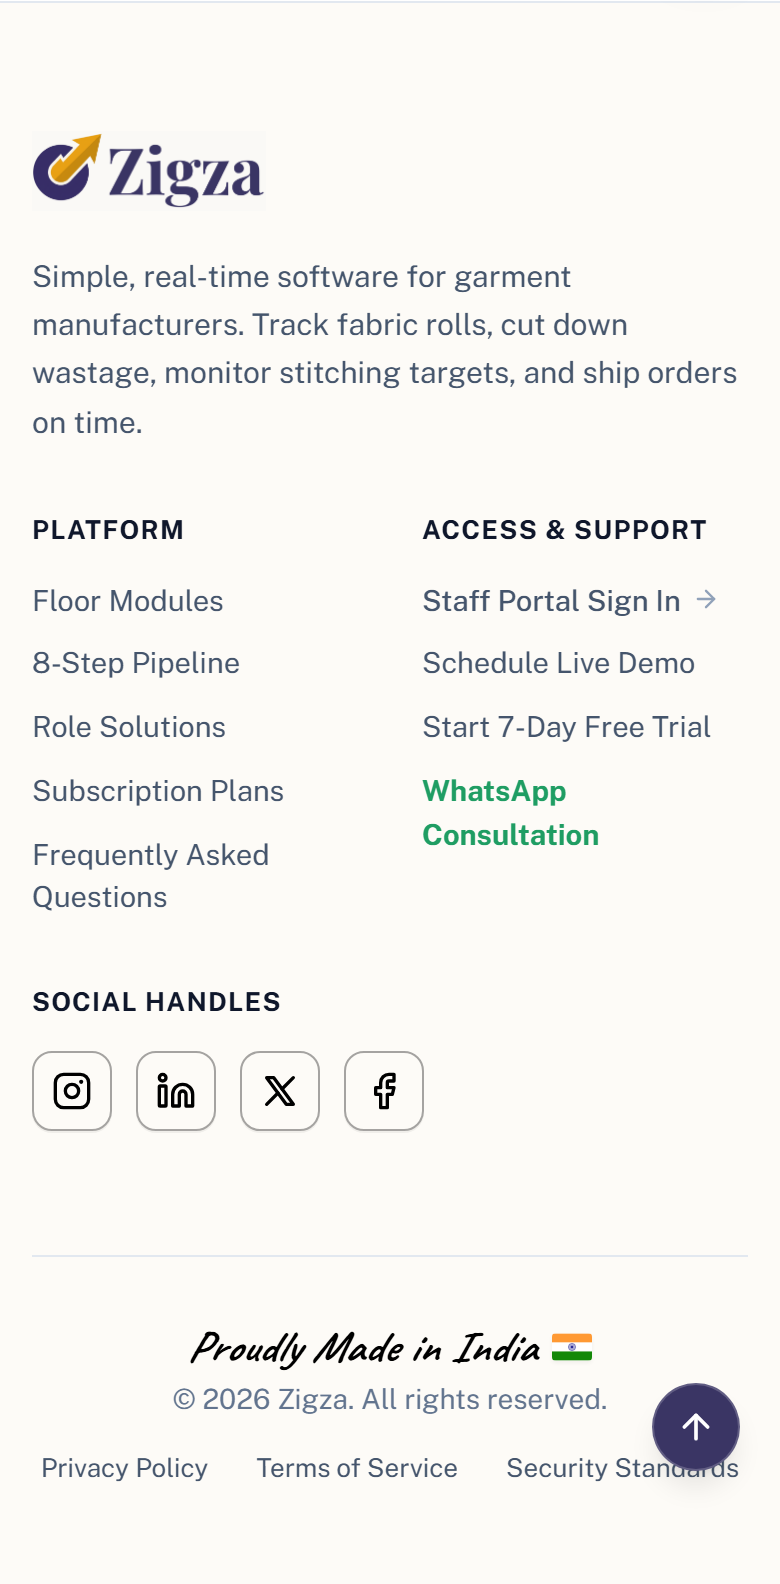
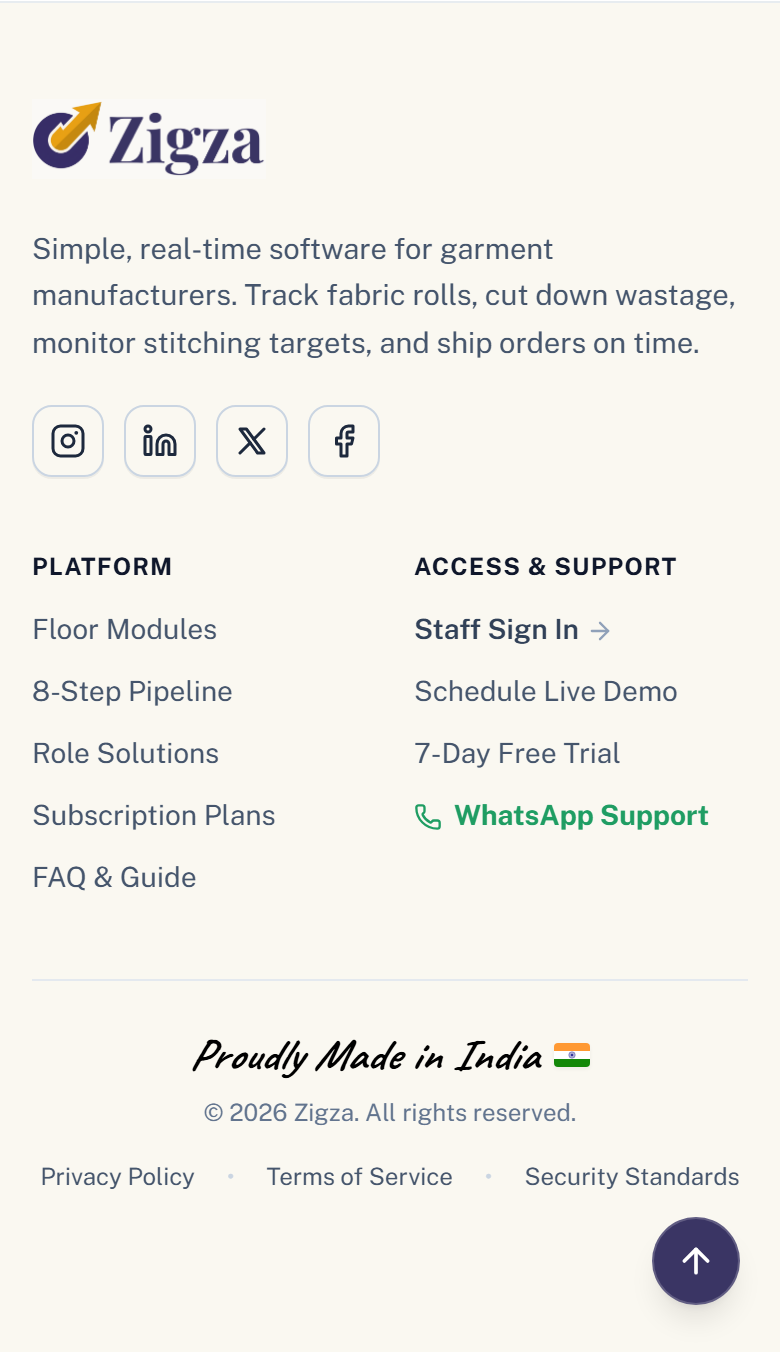
feat: add Zigza landing page client component and mobile introductory section assets

diff --git a/src/app/components/ZigzaLandingPageClient.tsx b/src/app/components/ZigzaLandingPageClient.tsx
@@ -2512,196 +2512,189 @@ export function ZigzaLandingPageClient({
       {/* =================================================================== */}
       {/* 10. ENTERPRISE FOOTER (LIGHT MODERN PALETTE)                       */}
       {/* =================================================================== */}
-      <footer className="bg-[#FDFBF7] text-slate-600 pt-16 pb-12 px-4 sm:px-6 lg:px-8 border-t border-slate-200">
+      <footer className="bg-[#FAF7F0]/90 text-slate-600 pt-12 sm:pt-16 pb-20 sm:pb-14 px-4 sm:px-6 lg:px-8 border-t border-slate-200/80">
         <div className="max-w-7xl mx-auto">
           
-          <div className="grid grid-cols-2 sm:grid-cols-2 lg:grid-cols-5 gap-8 sm:gap-10 lg:gap-8 mb-12 sm:mb-16">
+          <div className="grid grid-cols-1 md:grid-cols-2 lg:grid-cols-12 gap-8 sm:gap-10 lg:gap-12 mb-10 sm:mb-14">
             
             {/* Brand Column */}
-            <div className="col-span-2 lg:col-span-2 space-y-3.5">
+            <div className="lg:col-span-5 space-y-4">
               <Link href="/" className="inline-block group">
                 <img 
                   src="/z i g z a (8).png" 
                   alt="Zigza" 
-                  className="h-10 sm:h-12 w-auto object-contain group-hover:opacity-90 transition-opacity duration-150"
+                  className="h-10 sm:h-11 w-auto object-contain group-hover:opacity-90 transition-opacity duration-150"
                 />
               </Link>
-              <p className="text-[15px] sm:text-base text-slate-600 leading-relaxed max-w-sm font-normal">
+              <p className="text-[14.5px] sm:text-[15px] text-slate-600 leading-relaxed max-w-sm font-normal">
                 Simple, real-time software for garment manufacturers. Track fabric rolls, cut down wastage, monitor stitching targets, and ship orders on time.
               </p>
-            </div>
 
-            {/* Column 1: Platform */}
-            <div className="space-y-3.5">
-              <h5 className="text-[13px] font-mono font-bold uppercase tracking-wider text-slate-900">
-                Platform
-              </h5>
-              <ul className="space-y-2.5 text-[14.5px] sm:text-[15px]">
-                <li>
-                  <a 
-                    href="#modules" 
-                    onClick={(e) => scrollToSection(e, 'modules')}
-                    className="text-slate-600 hover:text-slate-900 hover:underline transition-colors inline-block cursor-pointer"
-                  >
-                    Floor Modules
-                  </a>
-                </li>
-                <li>
-                  <a 
-                    href="#workflow" 
-                    onClick={(e) => scrollToSection(e, 'workflow')}
-                    className="text-slate-600 hover:text-slate-900 hover:underline transition-colors inline-block cursor-pointer"
-                  >
-                    8-Step Pipeline
-                  </a>
-                </li>
-                <li>
-                  <a 
-                    href="#roles" 
-                    onClick={(e) => scrollToSection(e, 'roles')}
-                    className="text-slate-600 hover:text-slate-900 hover:underline transition-colors inline-block cursor-pointer"
-                  >
-                    Role Solutions
-                  </a>
-                </li>
-                <li>
-                  <a 
-                    href="#pricing" 
-                    onClick={(e) => scrollToSection(e, 'pricing')}
-                    className="text-slate-600 hover:text-slate-900 hover:underline transition-colors inline-block cursor-pointer"
-                  >
-                    Subscription Plans
-                  </a>
-                </li>
-                <li>
-                  <a 
-                    href="#faq" 
-                    onClick={(e) => scrollToSection(e, 'faq')}
-                    className="text-slate-600 hover:text-slate-900 hover:underline transition-colors inline-block cursor-pointer"
-                  >
-                    Frequently Asked Questions
-                  </a>
-                </li>
-              </ul>
-            </div>
-
-            {/* Column 2: Access & Support */}
-            <div className="space-y-3.5">
-              <h5 className="text-[13px] font-mono font-bold uppercase tracking-wider text-slate-900">
-                Access &amp; Support
-              </h5>
-              <ul className="space-y-2.5 text-[14.5px] sm:text-[15px]">
-                <li>
-                  <Link 
-                    href="/login" 
-                    className="text-slate-600 hover:text-slate-900 transition-colors inline-flex items-center gap-1.5 font-medium"
-                  >
-                    <span>Staff Portal Sign In</span>
-                    <ArrowRight className="w-3.5 h-3.5 text-slate-400" />
-                  </Link>
-                </li>
-                <li>
-                  <button
-                    type="button"
-                    onClick={() => setIsDemoModalOpen(true)}
-                    className="text-slate-600 hover:text-slate-900 transition-colors inline-block cursor-pointer"
-                  >
-                    Schedule Live Demo
-                  </button>
-                </li>
-                <li>
-                  <Link 
-                    href="/register" 
-                    className="text-slate-600 hover:text-slate-900 transition-colors inline-block"
-                  >
-                    Start 7-Day Free Trial
-                  </Link>
-                </li>
-                <li>
-                  <a 
-                    href="https://wa.me/?text=Hi,%20I%20would%20like%20to%20request%20a%20live%20demo%20of%20Zigza%20MES." 
-                    target="_blank" 
-                    rel="noopener noreferrer" 
-                    className="text-[#1F9D63] hover:text-emerald-700 transition-colors inline-block font-bold"
-                  >
-                    WhatsApp Consultation
-                  </a>
-                </li>
-              </ul>
-            </div>
-
-            {/* Column 3: Social Handles */}
-            <div className="col-span-2 sm:col-span-1 space-y-3.5">
-              <h5 className="text-[13px] font-mono font-bold uppercase tracking-wider text-slate-900">
-                Social Handles
-              </h5>
-              {/* Mobile: Horizontal icon row | Desktop: Vertical list with labels */}
-              <div className="flex items-center gap-3 sm:hidden">
-                <a href="https://instagram.com" target="_blank" rel="noopener noreferrer" aria-label="Zigza on Instagram" className="w-10 h-10 rounded-lg border border-black/35 hover:border-black hover:bg-[#FAF7F0] flex items-center justify-center transition-all bg-transparent shadow-2xs">
-                  <InstagramOutlineIcon className="w-5 h-5 text-black" />
+              {/* Social Handles Bar - Integrated smoothly in brand block */}
+              <div className="pt-1 flex items-center gap-2.5">
+                <a 
+                  href="https://instagram.com" 
+                  target="_blank" 
+                  rel="noopener noreferrer" 
+                  aria-label="Zigza on Instagram" 
+                  className="w-9 h-9 rounded-lg border border-slate-300 hover:border-black hover:bg-white flex items-center justify-center transition-all text-slate-800 hover:text-black shadow-2xs"
+                >
+                  <InstagramOutlineIcon className="w-4.5 h-4.5" />
                 </a>
-                <a href="https://linkedin.com" target="_blank" rel="noopener noreferrer" aria-label="Zigza on LinkedIn" className="w-10 h-10 rounded-lg border border-black/35 hover:border-black hover:bg-[#FAF7F0] flex items-center justify-center transition-all bg-transparent shadow-2xs">
-                  <LinkedinOutlineIcon className="w-5 h-5 text-black" />
+                <a 
+                  href="https://linkedin.com" 
+                  target="_blank" 
+                  rel="noopener noreferrer" 
+                  aria-label="Zigza on LinkedIn" 
+                  className="w-9 h-9 rounded-lg border border-slate-300 hover:border-black hover:bg-white flex items-center justify-center transition-all text-slate-800 hover:text-black shadow-2xs"
+                >
+                  <LinkedinOutlineIcon className="w-4.5 h-4.5" />
                 </a>
-                <a href="https://x.com" target="_blank" rel="noopener noreferrer" aria-label="Zigza on Twitter / X" className="w-10 h-10 rounded-lg border border-black/35 hover:border-black hover:bg-[#FAF7F0] flex items-center justify-center transition-all bg-transparent shadow-2xs">
-                  <TwitterXOutlineIcon className="w-5 h-5 text-black" />
+                <a 
+                  href="https://x.com" 
+                  target="_blank" 
+                  rel="noopener noreferrer" 
+                  aria-label="Zigza on Twitter / X" 
+                  className="w-9 h-9 rounded-lg border border-slate-300 hover:border-black hover:bg-white flex items-center justify-center transition-all text-slate-800 hover:text-black shadow-2xs"
+                >
+                  <TwitterXOutlineIcon className="w-4.5 h-4.5" />
                 </a>
-                <a href="https://facebook.com" target="_blank" rel="noopener noreferrer" aria-label="Zigza on Facebook" className="w-10 h-10 rounded-lg border border-black/35 hover:border-black hover:bg-[#FAF7F0] flex items-center justify-center transition-all bg-transparent shadow-2xs">
-                  <FacebookOutlineIcon className="w-5 h-5 text-black" />
+                <a 
+                  href="https://facebook.com" 
+                  target="_blank" 
+                  rel="noopener noreferrer" 
+                  aria-label="Zigza on Facebook" 
+                  className="w-9 h-9 rounded-lg border border-slate-300 hover:border-black hover:bg-white flex items-center justify-center transition-all text-slate-800 hover:text-black shadow-2xs"
+                >
+                  <FacebookOutlineIcon className="w-4.5 h-4.5" />
                 </a>
               </div>
-              <ul className="hidden sm:block space-y-2.5 text-[14.5px] sm:text-[15px]">
-                <li>
-                  <a href="https://instagram.com" target="_blank" rel="noopener noreferrer" aria-label="Zigza on Instagram" className="text-slate-700 hover:text-black transition-colors inline-flex items-center gap-3 group cursor-pointer">
-                    <span className="w-8 h-8 rounded-lg border border-black/35 group-hover:border-black group-hover:bg-[#FAF7F0] flex items-center justify-center transition-all bg-transparent shrink-0 shadow-2xs">
-                      <InstagramOutlineIcon className="w-4.5 h-4.5 text-black group-hover:scale-105 transition-transform" />
-                    </span>
-                    <span className="font-medium group-hover:underline">Instagram</span>
-                  </a>
-                </li>
-                <li>
-                  <a href="https://linkedin.com" target="_blank" rel="noopener noreferrer" aria-label="Zigza on LinkedIn" className="text-slate-700 hover:text-black transition-colors inline-flex items-center gap-3 group cursor-pointer">
-                    <span className="w-8 h-8 rounded-lg border border-black/35 group-hover:border-black group-hover:bg-[#FAF7F0] flex items-center justify-center transition-all bg-transparent shrink-0 shadow-2xs">
-                      <LinkedinOutlineIcon className="w-4.5 h-4.5 text-black group-hover:scale-105 transition-transform" />
-                    </span>
-                    <span className="font-medium group-hover:underline">LinkedIn</span>
-                  </a>
-                </li>
-                <li>
-                  <a href="https://x.com" target="_blank" rel="noopener noreferrer" aria-label="Zigza on Twitter / X" className="text-slate-700 hover:text-black transition-colors inline-flex items-center gap-3 group cursor-pointer">
-                    <span className="w-8 h-8 rounded-lg border border-black/35 group-hover:border-black group-hover:bg-[#FAF7F0] flex items-center justify-center transition-all bg-transparent shrink-0 shadow-2xs">
-                      <TwitterXOutlineIcon className="w-4.5 h-4.5 text-black group-hover:scale-105 transition-transform" />
-                    </span>
-                    <span className="font-medium group-hover:underline">Twitter / X</span>
-                  </a>
-                </li>
-                <li>
-                  <a href="https://facebook.com" target="_blank" rel="noopener noreferrer" aria-label="Zigza on Facebook" className="text-slate-700 hover:text-black transition-colors inline-flex items-center gap-3 group cursor-pointer">
-                    <span className="w-8 h-8 rounded-lg border border-black/35 group-hover:border-black group-hover:bg-[#FAF7F0] flex items-center justify-center transition-all bg-transparent shrink-0 shadow-2xs">
-                      <FacebookOutlineIcon className="w-4.5 h-4.5 text-black group-hover:scale-105 transition-transform" />
-                    </span>
-                    <span className="font-medium group-hover:underline">Facebook</span>
-                  </a>
-                </li>
-              </ul>
+            </div>
+
+            {/* Navigation Grid (2 Columns on Mobile & Tablet, 7 Columns on Desktop) */}
+            <div className="lg:col-span-7 grid grid-cols-2 gap-6 sm:gap-10 pt-1 lg:pt-0">
+              
+              {/* Column 1: Platform */}
+              <div className="space-y-3">
+                <h5 className="text-[12px] sm:text-[13px] font-mono font-bold uppercase tracking-wider text-slate-900">
+                  Platform
+                </h5>
+                <ul className="space-y-2.5 text-[14px] sm:text-[14.5px]">
+                  <li>
+                    <a 
+                      href="#modules" 
+                      onClick={(e) => scrollToSection(e, 'modules')}
+                      className="text-slate-600 hover:text-slate-900 hover:underline transition-colors inline-block cursor-pointer"
+                    >
+                      Floor Modules
+                    </a>
+                  </li>
+                  <li>
+                    <a 
+                      href="#workflow" 
+                      onClick={(e) => scrollToSection(e, 'workflow')}
+                      className="text-slate-600 hover:text-slate-900 hover:underline transition-colors inline-block cursor-pointer"
+                    >
+                      8-Step Pipeline
+                    </a>
+                  </li>
+                  <li>
+                    <a 
+                      href="#roles" 
+                      onClick={(e) => scrollToSection(e, 'roles')}
+                      className="text-slate-600 hover:text-slate-900 hover:underline transition-colors inline-block cursor-pointer"
+                    >
+                      Role Solutions
+                    </a>
+                  </li>
+                  <li>
+                    <a 
+                      href="#pricing" 
+                      onClick={(e) => scrollToSection(e, 'pricing')}
+                      className="text-slate-600 hover:text-slate-900 hover:underline transition-colors inline-block cursor-pointer"
+                    >
+                      Subscription Plans
+                    </a>
+                  </li>
+                  <li>
+                    <a 
+                      href="#faq" 
+                      onClick={(e) => scrollToSection(e, 'faq')}
+                      className="text-slate-600 hover:text-slate-900 hover:underline transition-colors inline-block cursor-pointer"
+                    >
+                      FAQ &amp; Guide
+                    </a>
+                  </li>
+                </ul>
+              </div>
+
+              {/* Column 2: Access & Support */}
+              <div className="space-y-3">
+                <h5 className="text-[12px] sm:text-[13px] font-mono font-bold uppercase tracking-wider text-slate-900">
+                  Access &amp; Support
+                </h5>
+                <ul className="space-y-2.5 text-[14px] sm:text-[14.5px]">
+                  <li>
+                    <Link 
+                      href="/login" 
+                      className="text-slate-700 hover:text-[#3A3564] transition-colors inline-flex items-center gap-1 font-semibold group"
+                    >
+                      <span>Staff Sign In</span>
+                      <ArrowRight className="w-3.5 h-3.5 text-slate-400 group-hover:translate-x-0.5 transition-transform" />
+                    </Link>
+                  </li>
+                  <li>
+                    <button
+                      type="button"
+                      onClick={() => setIsDemoModalOpen(true)}
+                      className="text-slate-600 hover:text-slate-900 hover:underline transition-colors inline-block cursor-pointer text-left"
+                    >
+                      Schedule Live Demo
+                    </button>
+                  </li>
+                  <li>
+                    <Link 
+                      href="/register" 
+                      className="text-slate-600 hover:text-slate-900 hover:underline transition-colors inline-block"
+                    >
+                      7-Day Free Trial
+                    </Link>
+                  </li>
+                  <li>
+                    <a 
+                      href="https://wa.me/?text=Hi,%20I%20would%20like%20to%20request%20a%20live%20demo%20of%20Zigza%20MES." 
+                      target="_blank" 
+                      rel="noopener noreferrer" 
+                      className="text-[#1F9D63] hover:text-emerald-700 transition-colors inline-flex items-center gap-1.5 font-bold"
+                    >
+                      <Phone className="w-3.5 h-3.5 shrink-0" />
+                      <span>WhatsApp Support</span>
+                    </a>
+                  </li>
+                </ul>
+              </div>
+
             </div>
 
           </div>
 
           {/* Bottom Divider & Proudly Made in India Bar */}
-          <div className="pt-8 border-t border-slate-200 flex flex-col sm:flex-row items-center justify-between gap-4 text-sm text-slate-600">
-            <div className="flex flex-col items-center sm:items-start gap-1 text-center sm:text-left">
+          <div className="pt-6 sm:pt-8 border-t border-slate-200/90 flex flex-col sm:flex-row items-center justify-between gap-4 text-xs sm:text-sm text-slate-600">
+            <div className="flex flex-col sm:flex-row items-center gap-2 sm:gap-4 text-center sm:text-left">
               <div className="flex items-center gap-2">
-                <span className="text-proudly-india-black font-semibold">
+                <span className="text-proudly-india-black font-semibold text-[13px] sm:text-sm">
                   Proudly Made in India
                 </span>
-                <IndiaFlag className="w-5 h-3.5 rounded-xs shrink-0" />
+                <IndiaFlag className="w-4.5 h-3 rounded-xs shrink-0" />
               </div>
-              <p className="text-sm text-slate-500">© {new Date().getFullYear()} Zigza. All rights reserved.</p>
+              <span className="hidden sm:inline text-slate-300">•</span>
+              <p className="text-xs sm:text-sm text-slate-500">© {new Date().getFullYear()} Zigza. All rights reserved.</p>
             </div>
-            <div className="flex flex-wrap items-center justify-center sm:justify-end gap-x-6 gap-y-2 text-[13px] sm:text-sm text-slate-600">
+            <div className="flex flex-wrap items-center justify-center sm:justify-end gap-x-4 sm:gap-x-5 gap-y-1.5 text-xs sm:text-sm text-slate-600">
               <Link href="/privacy" className="hover:text-slate-900 transition-colors">Privacy Policy</Link>
+              <span className="text-slate-300">•</span>
               <Link href="/terms" className="hover:text-slate-900 transition-colors">Terms of Service</Link>
+              <span className="text-slate-300">•</span>
               <Link href="/security" className="hover:text-slate-900 transition-colors">Security Standards</Link>
             </div>
           </div>
